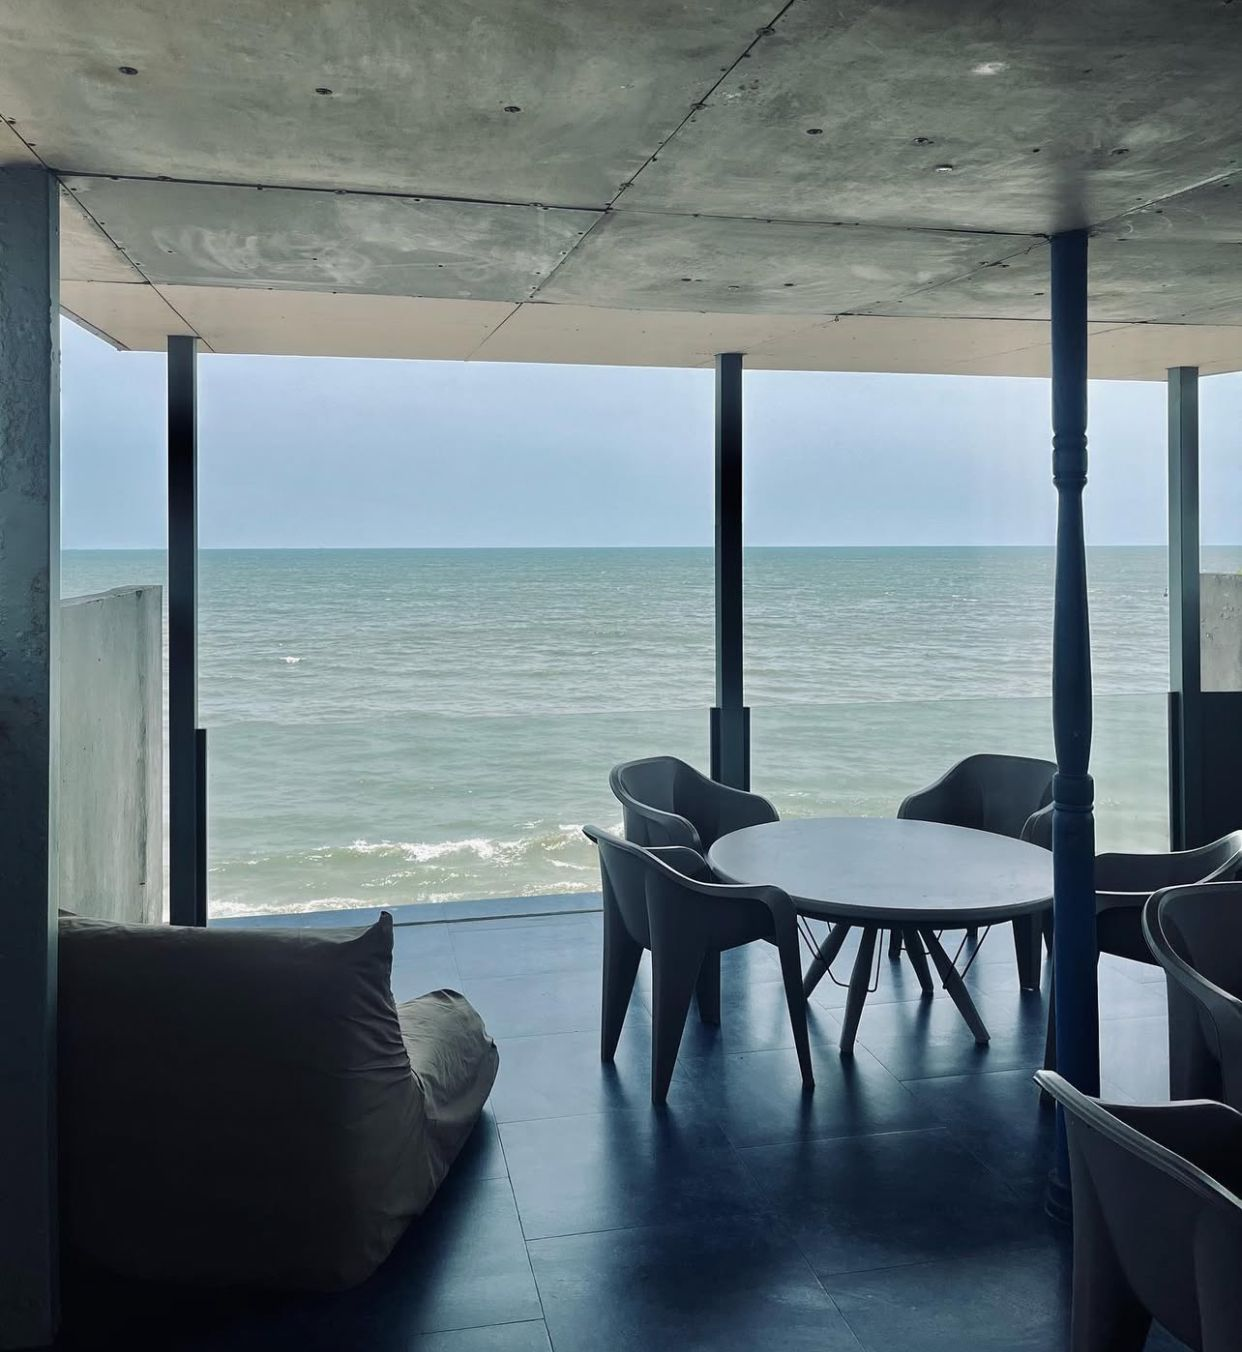
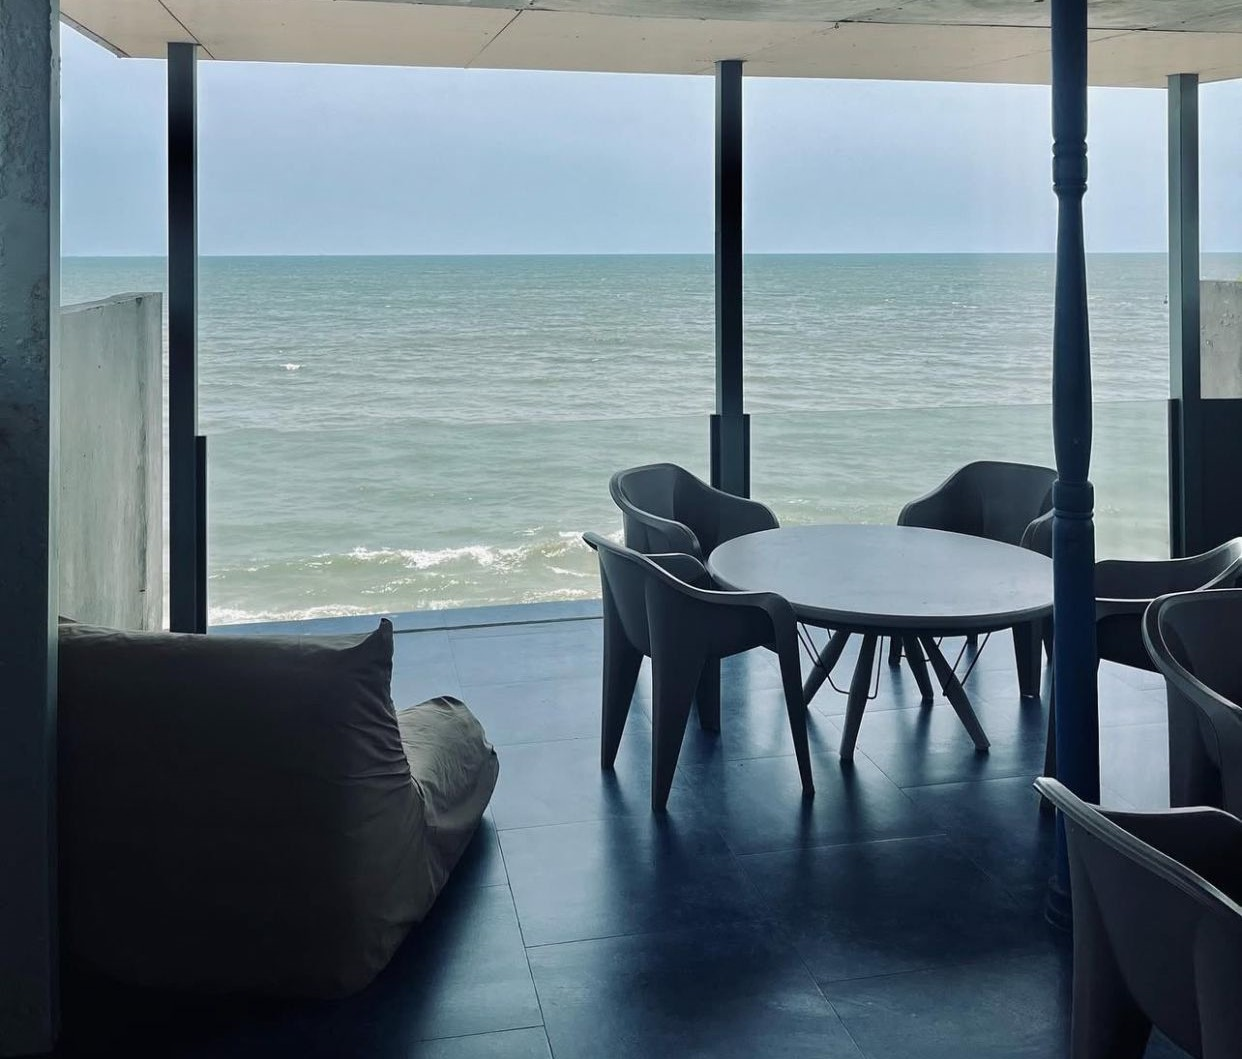
ee

diff --git a/index.html b/index.html
@@ -76,10 +76,11 @@
   <div class="container">
     <div class="row">
       <div class="col-xs-12 col-md-6">
-        <video autoplay muted loop class="video-fluid" width="100%" height="400px"  style="object-fit: cover ; border-radius: 5px;"preload="metadata" >
+        <!-- <video autoplay muted loop class="video-fluid" width="100%" height="400px"  style="object-fit: cover ; border-radius: 5px;"preload="metadata" >
           <source src="./img/video1.mp4" type="video/mp4">
           Your browser does not support the video tag.
-        </video>
+        </video> -->
+        <img src="./img/g8.jpg" class="about-img img-fluid"/>
         </div>
       <div class="col-xs-12 col-md-6">
         <div class="about-text">
@@ -88,6 +89,14 @@
           <p>Nestled by the serene waves and golden sands, Cadalas Cafe is your ultimate seaside retreat. With stunning ocean views and a cozy ambiance, we offer a haven where the soothing rhythm of the sea meets culinary delights crafted with love.</p>
           <h3>We offer</h3>
           <p>At Cadalas, every bite tells a story, and every moment feels like a cherished escape. Whether you’re savoring a freshly brewed cup of coffee, indulging in our signature seafood dishes, or simply soaking in the sunset, you’ll find the perfect blend of relaxation and indulgence.</p>
+
+          <ul class="about-list">
+            <li><i class="fa fa-check-circle"></i> Freshly brewed artisan coffee</li>
+            <li><i class="fa fa-check-circle"></i> Delicious seafood specialties</li>
+            <li><i class="fa fa-check-circle"></i> Stunning oceanfront views</li>
+            <li><i class="fa fa-check-circle"></i> Cozy and relaxing ambiance</li>
+            <li><i class="fa fa-check-circle"></i> Friendly and warm hospitality</li>
+        </ul>
         </div>
       </div>
     </div>

diff --git a/css/style.css b/css/style.css
@@ -214,8 +214,28 @@ header .intro-text {
 }
 /* About Section */
 #about {
-	padding: 120px 0;
+	padding: 50px 0;
 }
+.about-list {
+    list-style: none;
+    padding: 0;
+    margin-top: 15px;
+}
+
+.about-list li {
+    margin-bottom: 5px;
+    display: flex;
+    align-items: center;
+	font-size: 1.3rem;
+
+}
+
+.about-list i {
+    color: #28a745; /* Green checkmark */
+    margin-right: 10px;
+    font-size: 1.5rem;
+}
+
 
 #about h2 {
 	font-family: 'Dancing Script', cursive;
@@ -232,6 +252,10 @@ header .intro-text {
 #about .about-img {
 	display: inline-block;
 	position: relative;
+	width: 100%; 
+    height: auto;
+    object-fit: cover;
+
 }
 #about .about-img:before {
 	display: block;
@@ -245,7 +269,7 @@ header .intro-text {
 }
 #about p {
 	line-height: 24px;
-	margin: 15px 0 30px;
+	/* margin: 1px 0 30px; */
 }
 /* Menu Section */
 #restaurant-menu {
